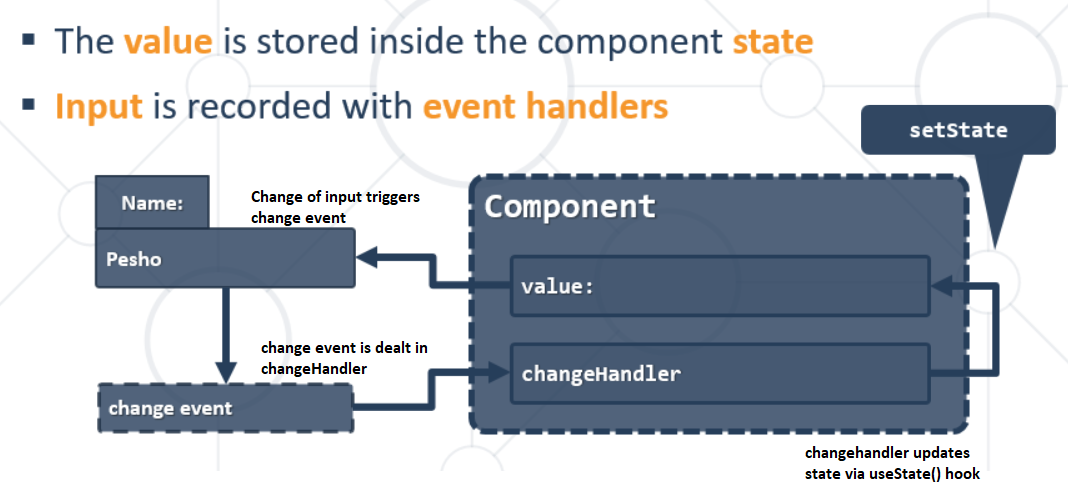
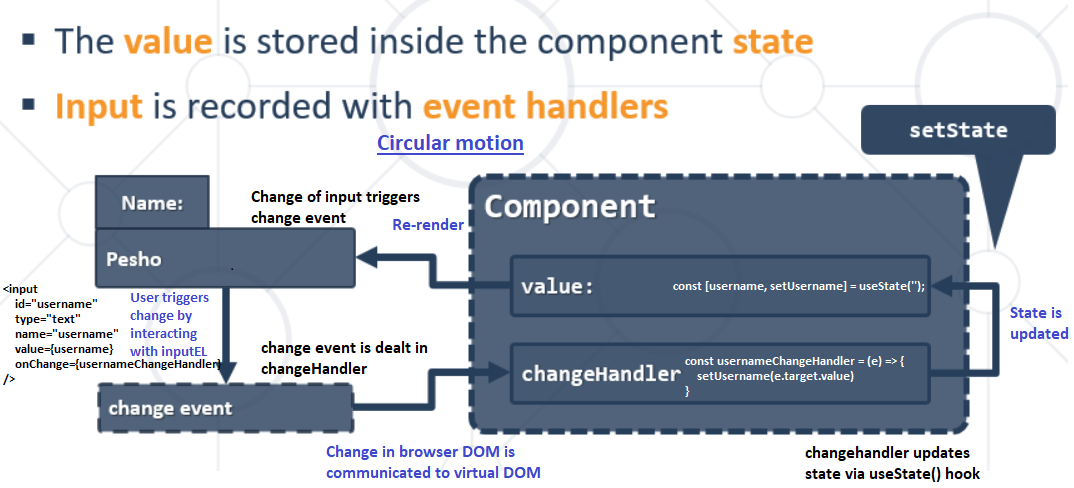
controlled vs uncontrolled forms

diff --git a/softuniReact/05. ReactJS-Forms/my-react-forms-demo/src/ControlledFormsApp.js b/softuniReact/05. ReactJS-Forms/my-react-forms-demo/src/ControlledFormsApp.js
@@ -1,0 +1,41 @@
+import './App.css';
+import { useState } from 'react'
+
+function App() {
+    const [username, setUsername] = useState('');
+    
+    const submitHandler = (e) => {
+        e.preventDefault();
+        
+    }
+    const usernameChangeHandler = (e) => {
+        setUsername(e.target.value) // each change in browser DOM is reflected by updating the React state, so that we have a state of the browser DOM form on our own virtual DOM 
+    }
+    return (
+        <div className="App">
+            <header className="App-header">
+                <form onSubmit={submitHandler}>
+                    <div>
+                        <label htmlFor="username">Username:</label>
+                        <input 
+                            id="username"
+                            type="text" 
+                            name="username"
+                            value={username} //value shift the controll over the form to React
+                            onChange={usernameChangeHandler} //onChange watches for each keystroke change in borwser DOM
+                        />
+                    </div>
+                    <div>
+                        <label htmlFor="password">Password:</label>
+                        <input id="password" type="password" name="password" />
+                    </div>
+                    <div>
+                        <input type="submit" value="Login" />
+                    </div>
+                </form>
+            </header>
+        </div>
+    );
+}
+
+export default App;
